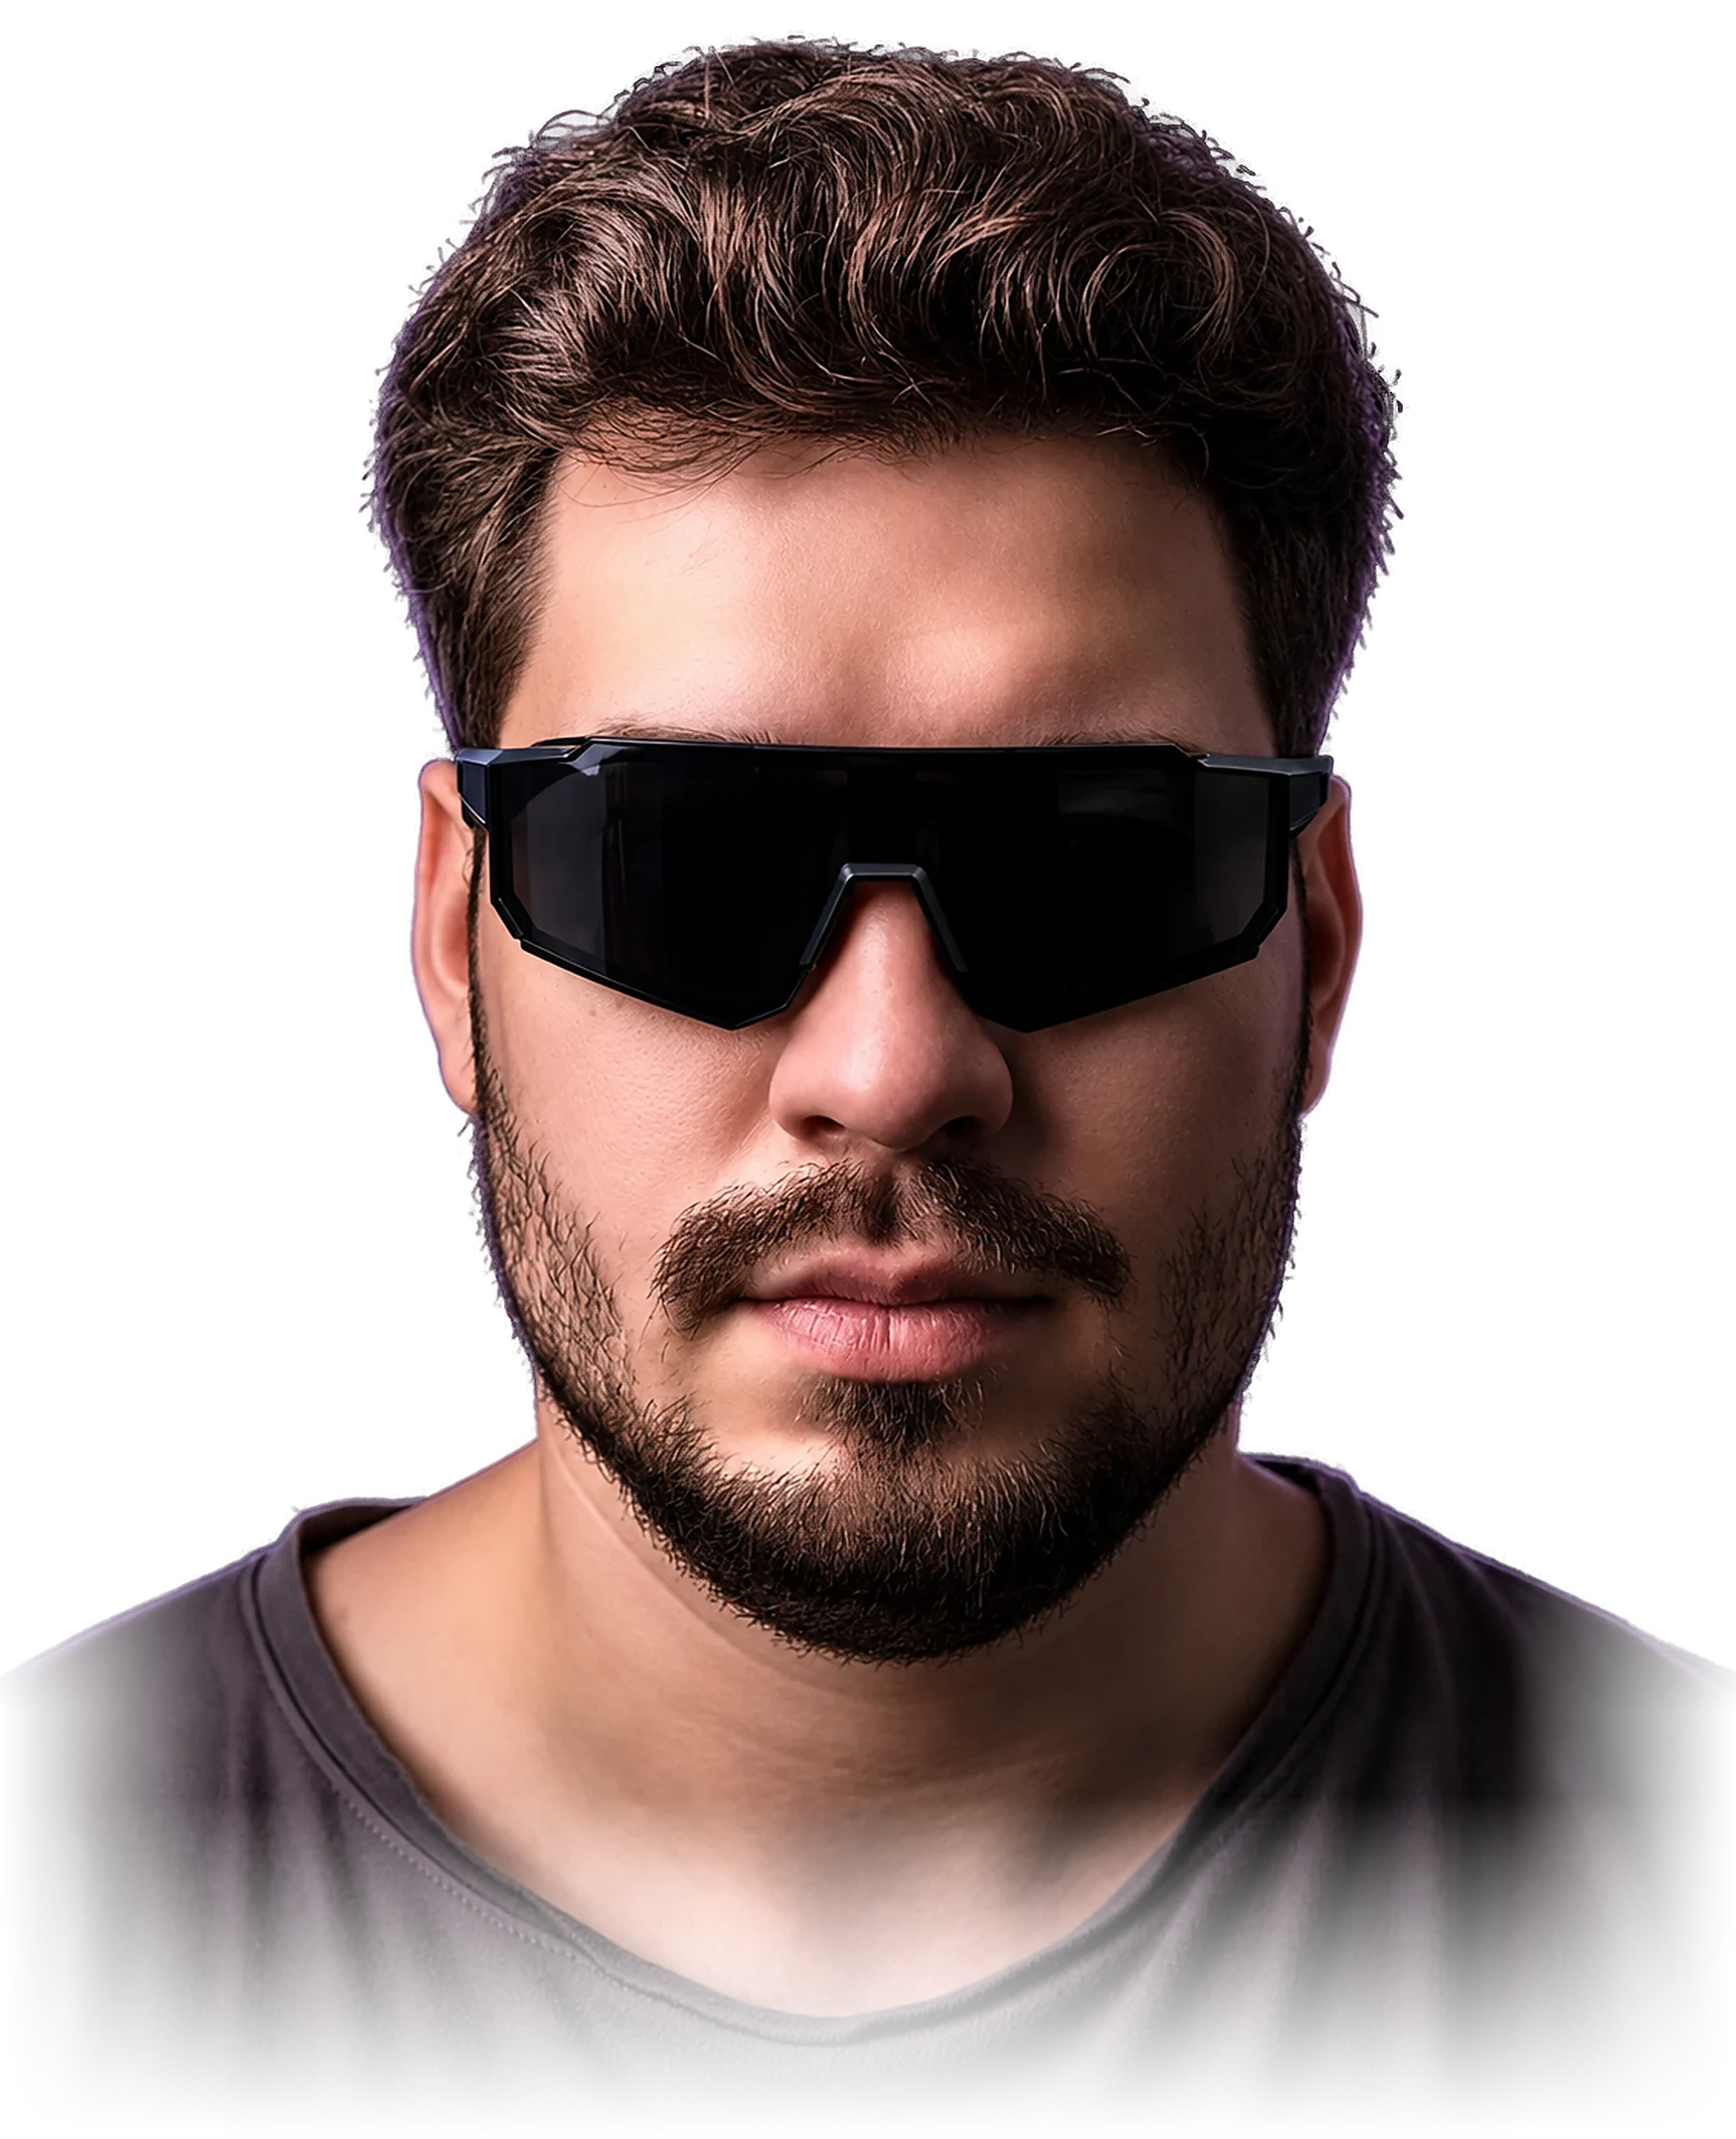
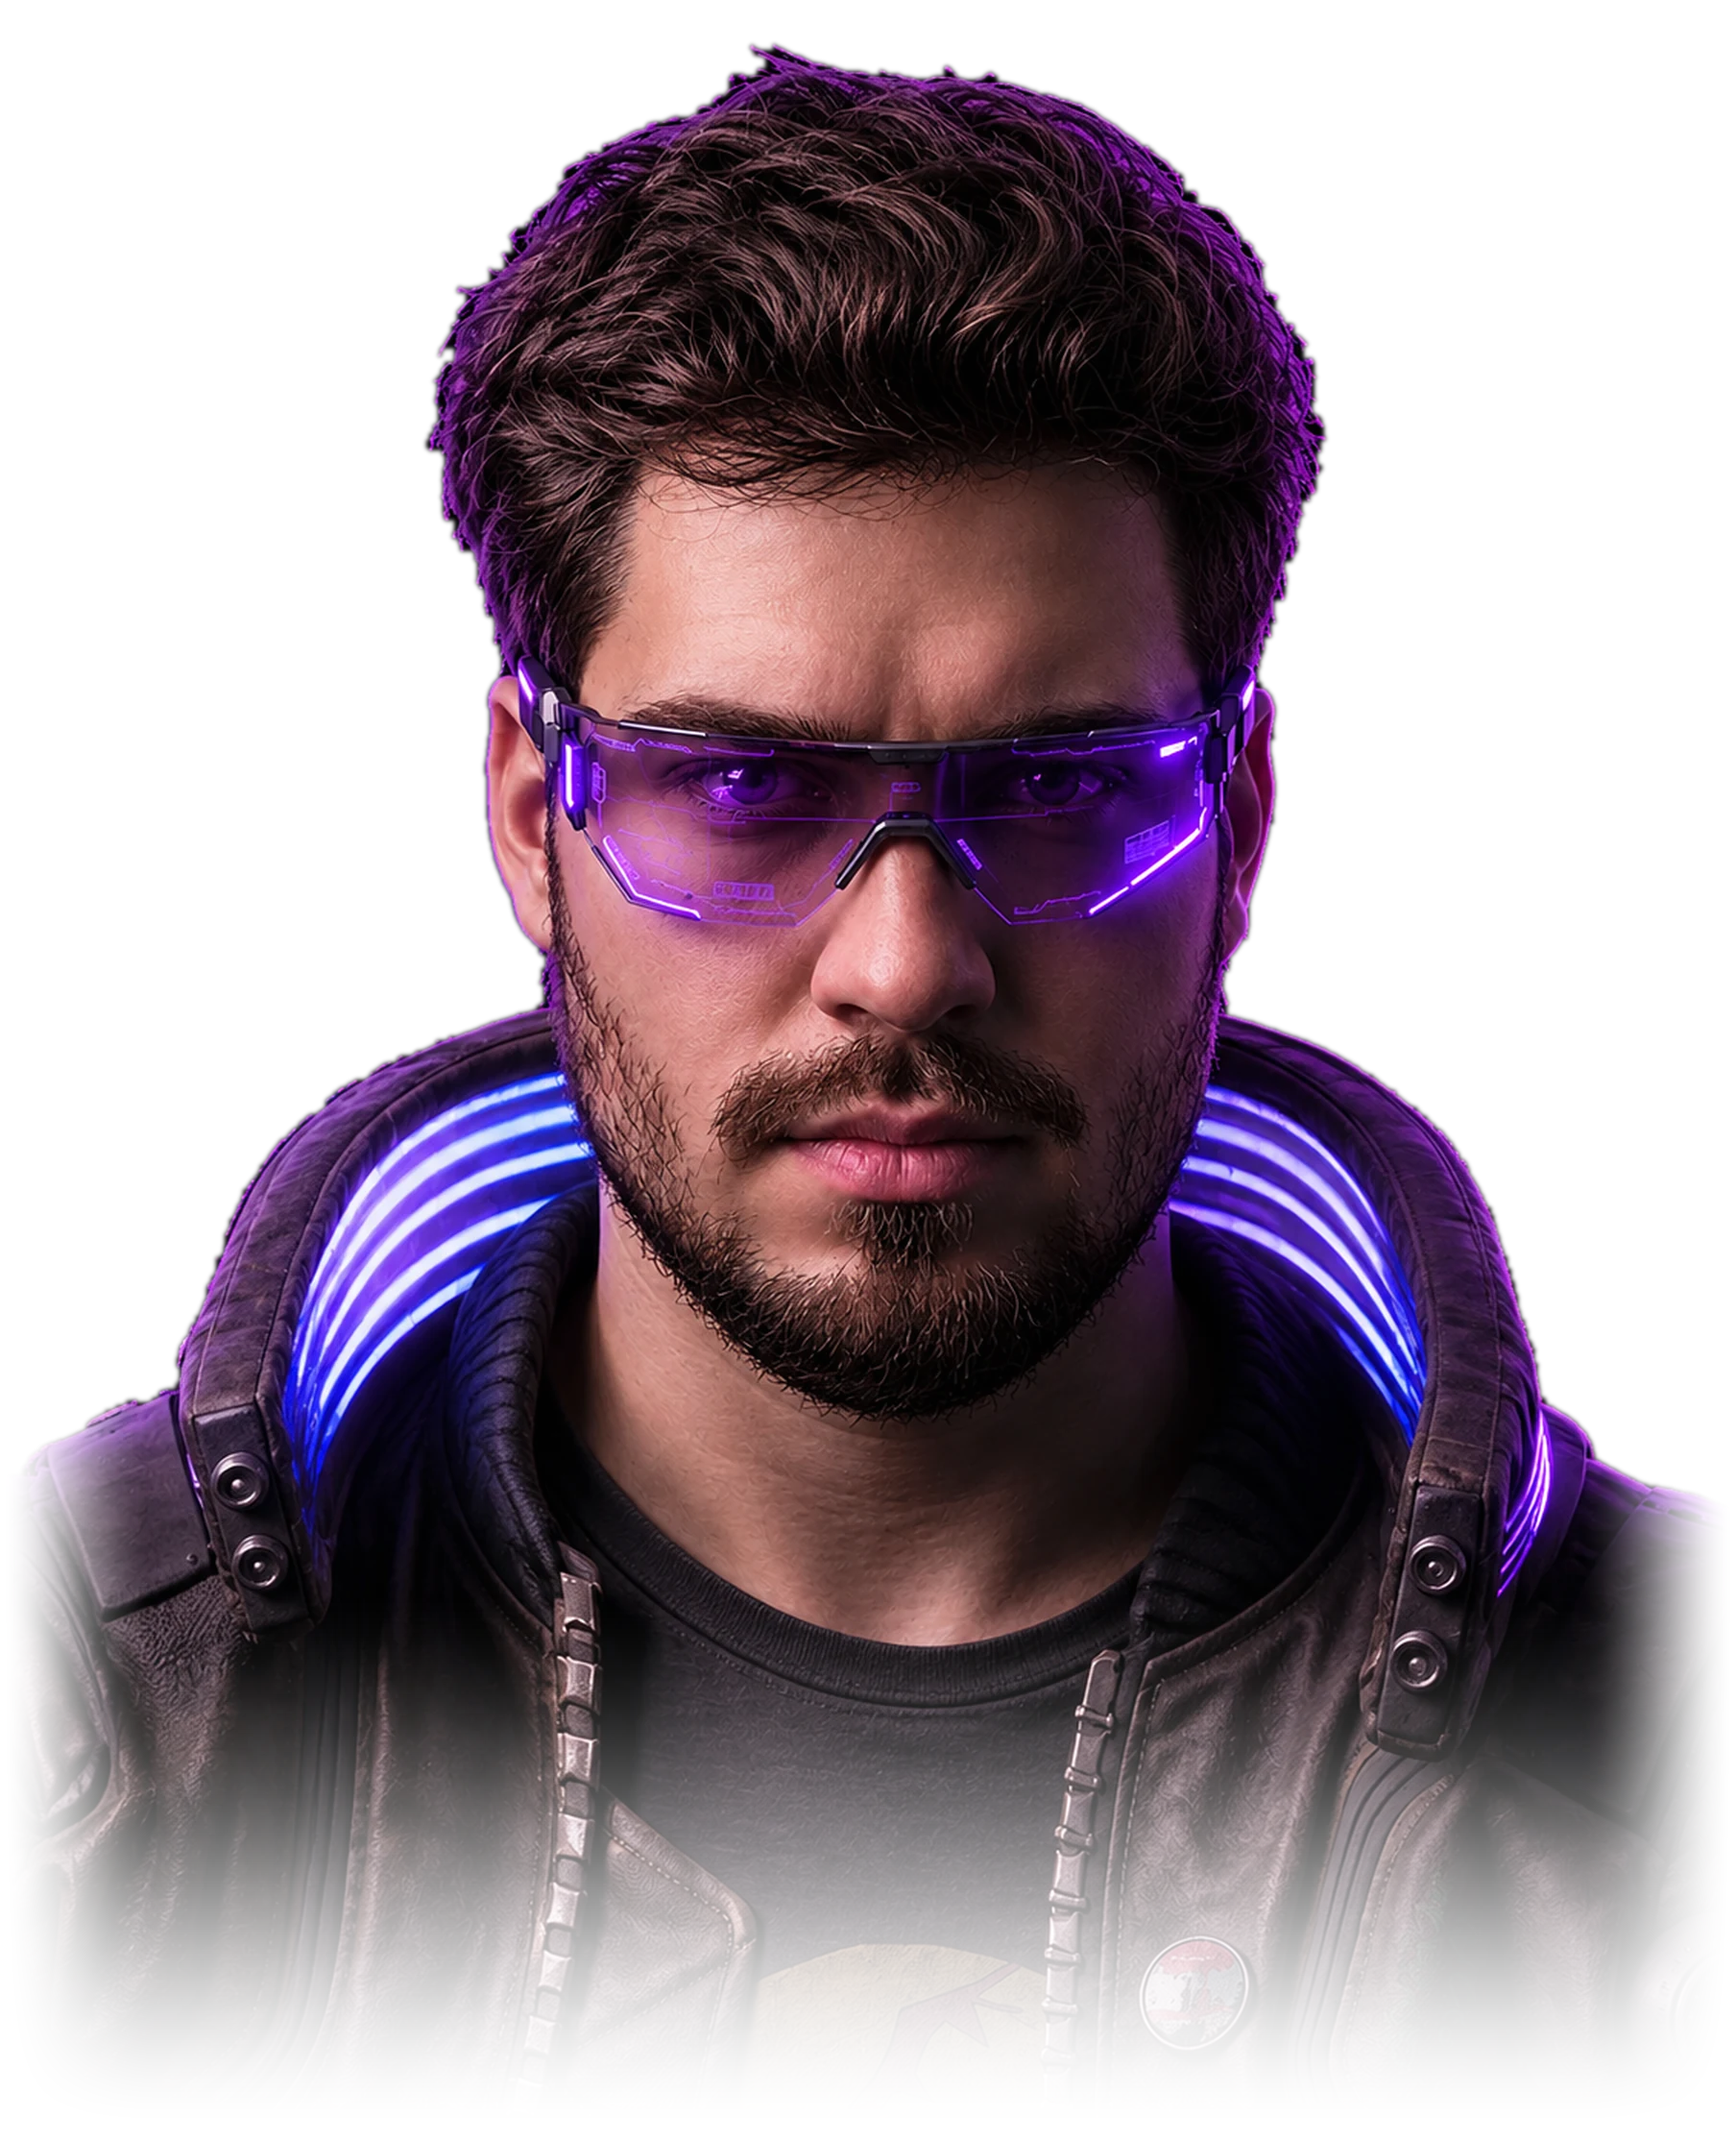
v2 hero: new cyberpunk portrait, feathered edges, lens video mask refit
Claude-Session: https://claude.ai/code/session_016mbQdegGQk4836ehLAt8v1

diff --git a/v2/index.html b/v2/index.html
@@ -12,7 +12,7 @@
 <link rel="apple-touch-icon" href="../img/apple-touch-icon.png">
 <script>document.documentElement.classList.add("js");try{if(sessionStorage.getItem("v2pre")||/[?&]nopre/.test(location.search))document.documentElement.classList.add("nopre")}catch(e){}setTimeout(function(){if(!window.__v2)document.documentElement.classList.remove("js")},3000)</script>
 <link rel="stylesheet" href="../v2/css/fonts.css">
-<link rel="stylesheet" href="../v2/css/v2.css?v=2611102235">
+<link rel="stylesheet" href="../v2/css/v2.css?v=2611110922">
 </head>
 <body id="top">
 <div class="prog" id="prog"></div>
@@ -223,6 +223,6 @@
 <div class="cookie" id="cookie" role="region" aria-label="Cookies"><p><span>Мы используем только необходимые cookie. Аналитика включается лишь с вашего согласия.</span> <a href="../privacy-policy/#cookies">Политика cookie</a>.</p><div class="row"><button class="btn ghost" id="ck-no" type="button"><span>Отказаться</span></button><button class="btn" id="ck-yes" type="button"><span>Принять</span></button></div></div>
 
 <script src="../v2/js/gsap.min.js"></script><script src="../v2/js/ScrollTrigger.min.js"></script><script src="../v2/js/lenis.min.js"></script>
-<script src="../v2/js/v2.js?v=2611102235"></script>
+<script src="../v2/js/v2.js?v=2611110922"></script>
 </body>
 </html>

diff --git a/v2/css/v2.css b/v2/css/v2.css
@@ -488,7 +488,7 @@ html:not(.js) .bars-row b{transform:none}
 /* ===== v3: очки, фон hero, CTA, чёрные блоки ===== */
 .glasses{position:absolute;inset:0;pointer-events:none}
 .glasses svg.gl-tint,.glasses svg.gl-frame{position:absolute;inset:0;width:100%;height:100%}
-.gl-video{position:absolute;left:27.489%;top:35.07%;width:48.23%;height:12.753%;object-fit:cover;mix-blend-mode:screen;opacity:.92;-webkit-mask:url(../img/lens-mask.png) center/100% 100% no-repeat;mask:url(../img/lens-mask.png) center/100% 100% no-repeat}
+.gl-video{position:absolute;left:33.186%;top:33.549%;width:36.903%;height:9.698%;object-fit:cover;mix-blend-mode:screen;opacity:.6;-webkit-mask:url(../img/lens-mask.png) center/100% 100% no-repeat;mask:url(../img/lens-mask.png) center/100% 100% no-repeat}
 .hero-bgtxt{position:absolute;inset:0;z-index:1;display:flex;flex-direction:column;justify-content:center;gap:.02em;overflow:hidden;pointer-events:none;font-family:var(--disp);font-weight:700;font-size:clamp(150px,27vw,420px);line-height:.86;text-transform:uppercase;color:rgba(243,239,232,.045);user-select:none;transform:translateY(-6%)}
 .hero-bgtxt .bgrow{display:flex;white-space:nowrap}
 .hero-bgtxt .mq-t{display:flex;flex:none;gap:.25em;padding-right:.25em;will-change:transform}

diff --git a/v2/template.html b/v2/template.html
@@ -12,7 +12,7 @@
 <link rel="apple-touch-icon" href="{{ROOT}}img/apple-touch-icon.png">
 <script>document.documentElement.classList.add("js");try{if(sessionStorage.getItem("v2pre")||/[?&]nopre/.test(location.search))document.documentElement.classList.add("nopre")}catch(e){}setTimeout(function(){if(!window.__v2)document.documentElement.classList.remove("js")},3000)</script>
 <link rel="stylesheet" href="{{ROOT}}v2/css/fonts.css">
-<link rel="stylesheet" href="{{ROOT}}v2/css/v2.css?v=2611102235">
+<link rel="stylesheet" href="{{ROOT}}v2/css/v2.css?v=2611110922">
 </head>
 <body id="top">
 <div class="prog" id="prog"></div>
@@ -223,6 +223,6 @@
 <div class="cookie" id="cookie" role="region" aria-label="Cookies"><p><span>[[ck]]</span> <a href="{{POL}}#cookies">[[ckl]]</a>.</p><div class="row"><button class="btn ghost" id="ck-no" type="button"><span>[[ckn]]</span></button><button class="btn" id="ck-yes" type="button"><span>[[cky]]</span></button></div></div>
 
 <script src="{{ROOT}}v2/js/gsap.min.js"></script><script src="{{ROOT}}v2/js/ScrollTrigger.min.js"></script><script src="{{ROOT}}v2/js/lenis.min.js"></script>
-<script src="{{ROOT}}v2/js/v2.js?v=2611102235"></script>
+<script src="{{ROOT}}v2/js/v2.js?v=2611110922"></script>
 </body>
 </html>
